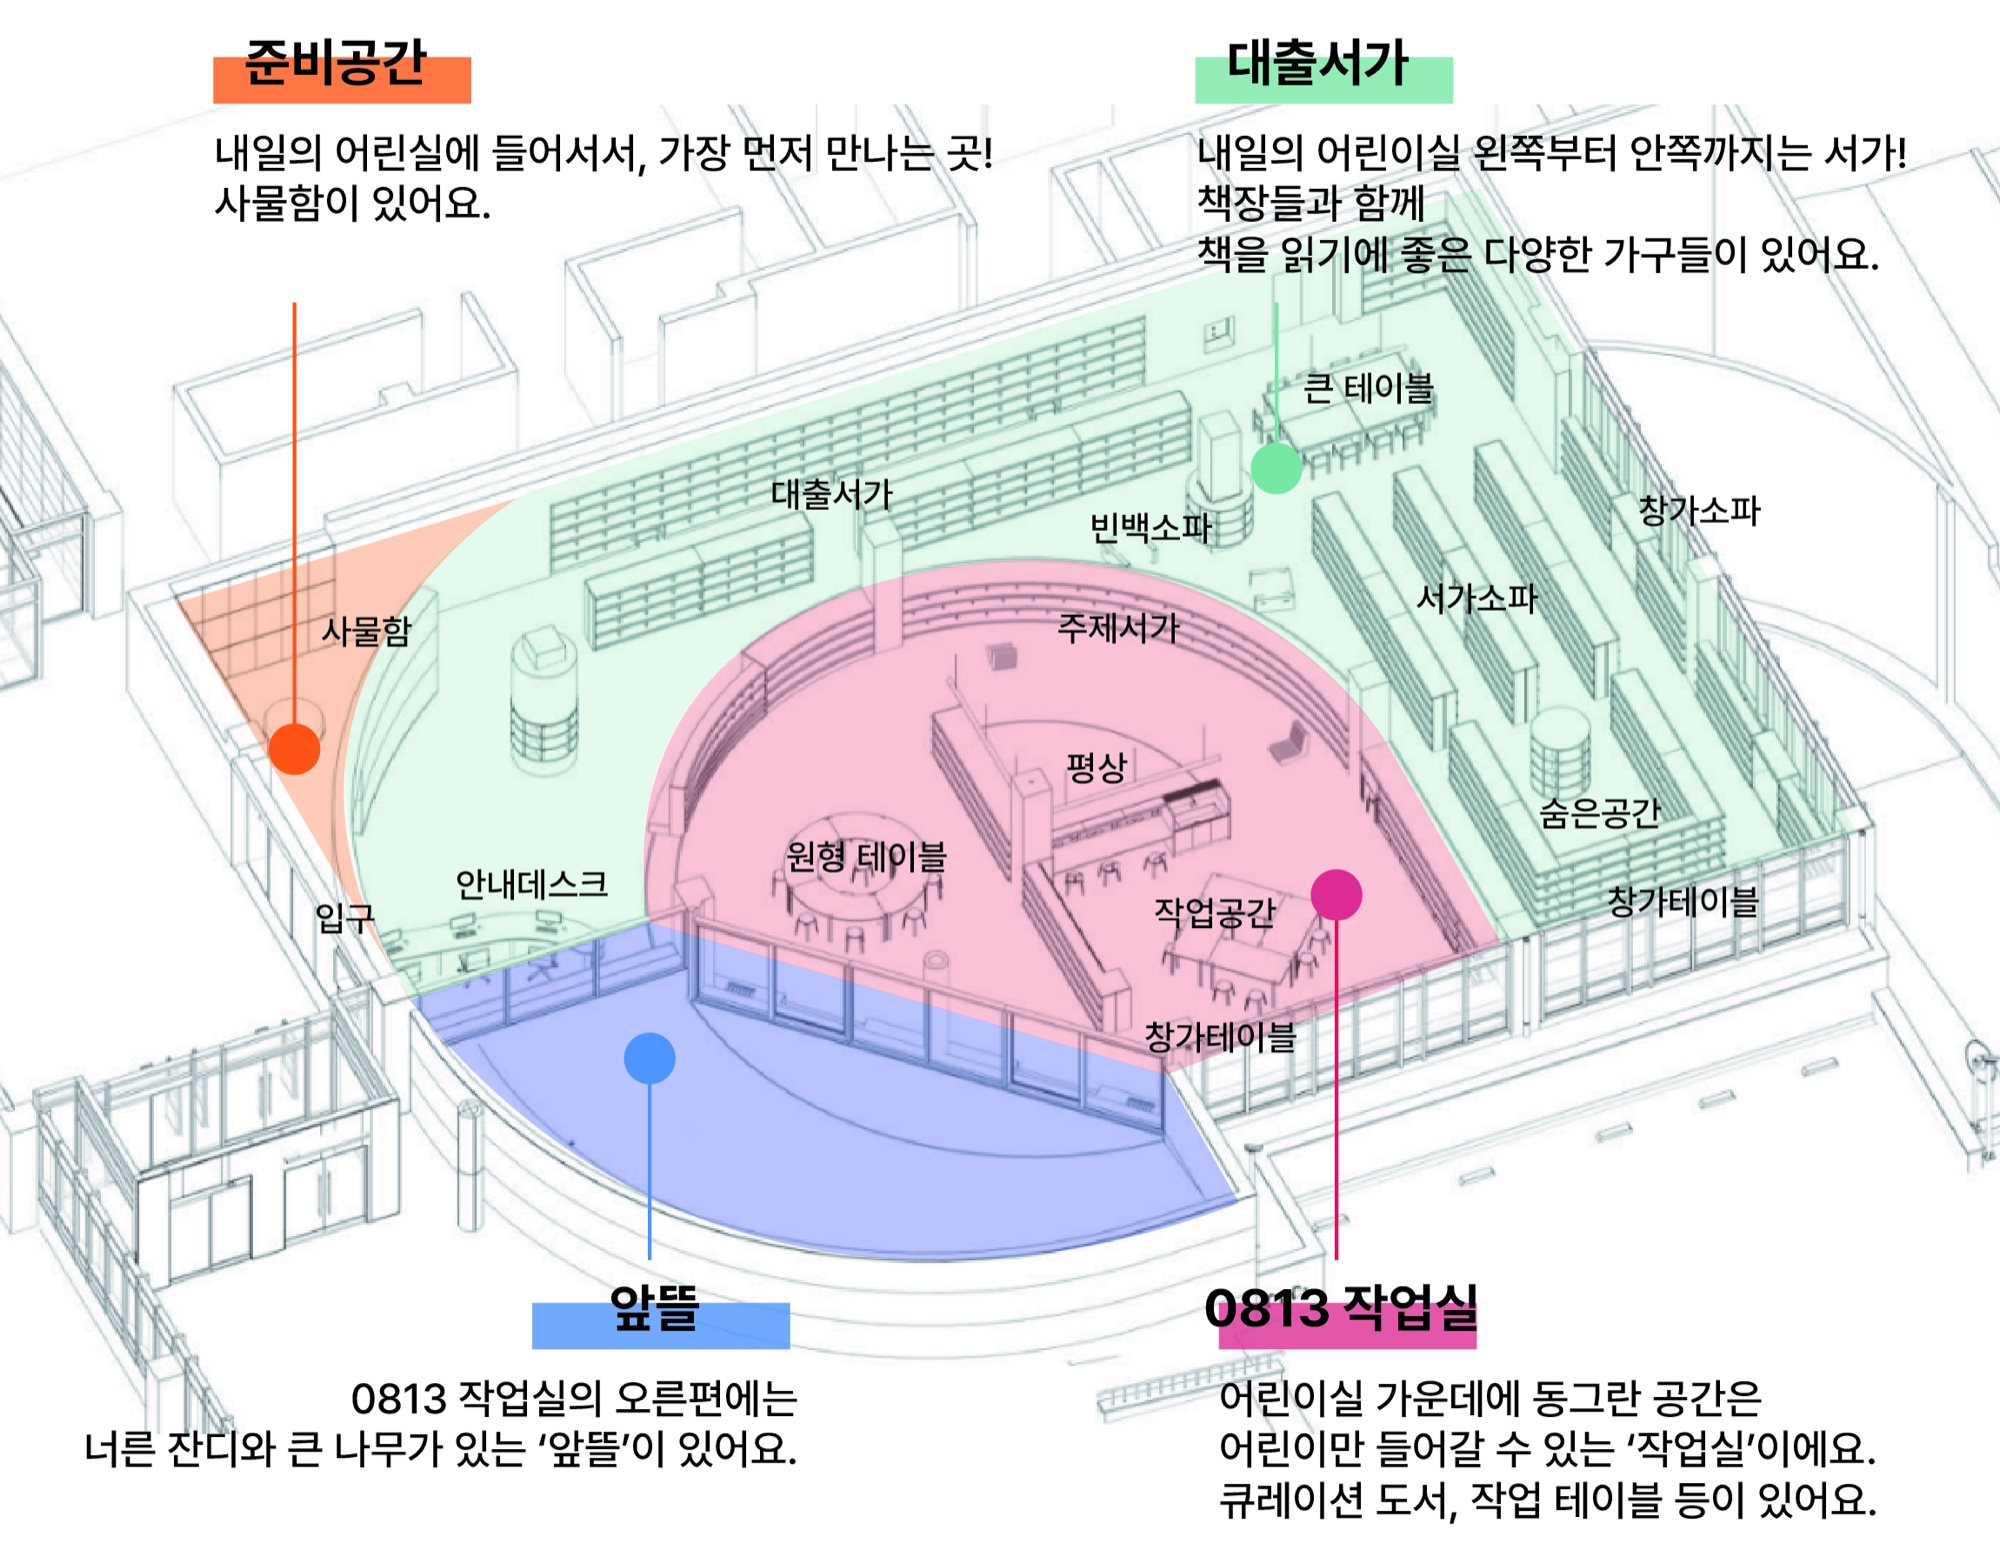
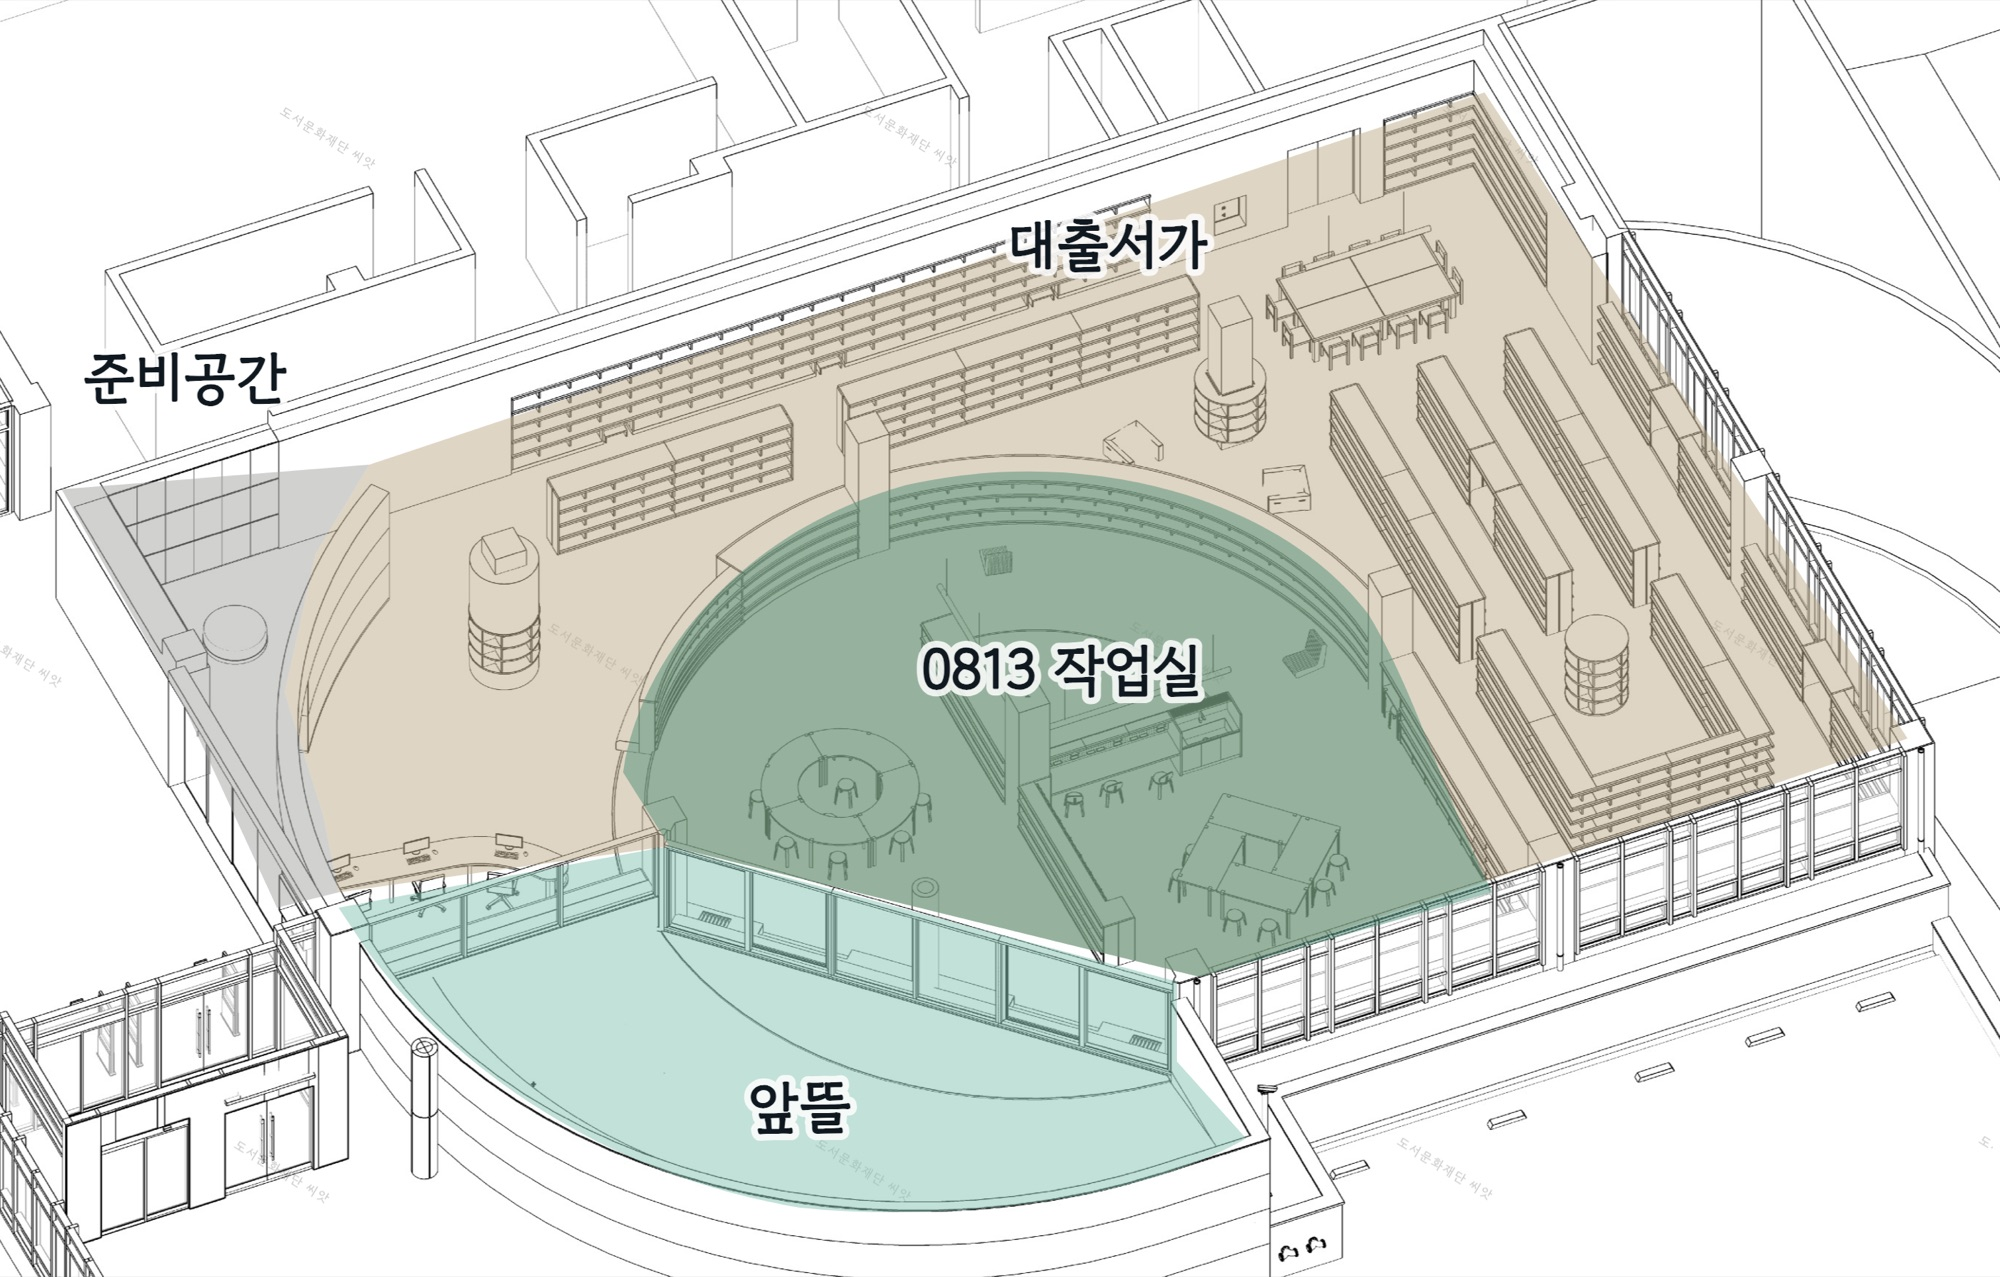
공간 지도를 설계 도면에 네 공간 영역만 색으로 구분한 버전으로 교체

diff --git a/index.html b/index.html
@@ -153,7 +153,7 @@
     <p class="lede"><span class="nobr">〈내일의 어린이실〉에는</span> 8–13세 어린이만을 위한 공간, <b><span class="nobr">“0813 작업실”</span></b>이 있습니다. 어린이의 관심사에서 출발하여 세상에 대한 관점을 넓힐 수 있는 책 큐레이션, 그리고 이야기의 세계를 직접 구현해 볼 수 있는 재료와 도구가 준비되어 있습니다. 서가와 작업 테이블을 넘나드는 경험의 여정을 직접 확인하고 있습니다.</p>
 
     <figure class="map">
-      <a href="assets/img/cheonan/space-map.jpg?v=d"><img src="assets/img/cheonan/space-map.jpg?v=d" alt="천안두정도서관 내일의 어린이실 공간 구성도. 입구 옆 준비공간(사물함), 가운데 둥근 0813 작업실(주제서가·평상·원형 테이블·작업공간·창가테이블), 작업실 오른편 앞뜰, 왼쪽부터 안쪽까지 이어지는 대출서가(큰 테이블·빈백소파·서가소파·창가소파·숨은공간)" width="2000" height="1544" loading="lazy"></a>
+      <a href="assets/img/cheonan/space-map.jpg?v=i"><img src="assets/img/cheonan/space-map.jpg?v=i" alt="천안두정도서관 내일의 어린이실 공간 구성도. 입구 옆 준비공간, 가운데 둥근 0813 작업실, 그 둘레를 감싸는 대출서가, 작업실 바깥의 앞뜰을 색으로 구분했다." width="2000" height="1277" loading="lazy"></a>
       <figcaption>천안두정도서관 내일의 어린이실 공간 구성</figcaption>
     </figure>
 
